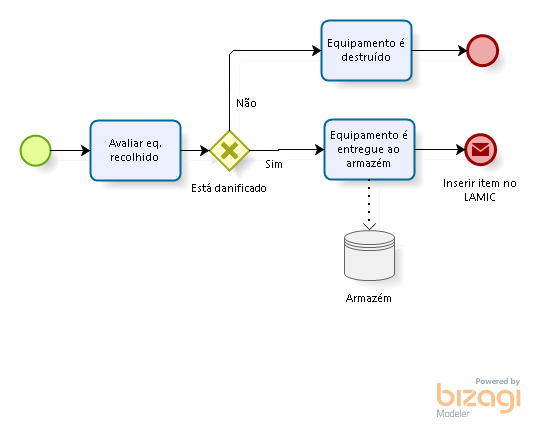
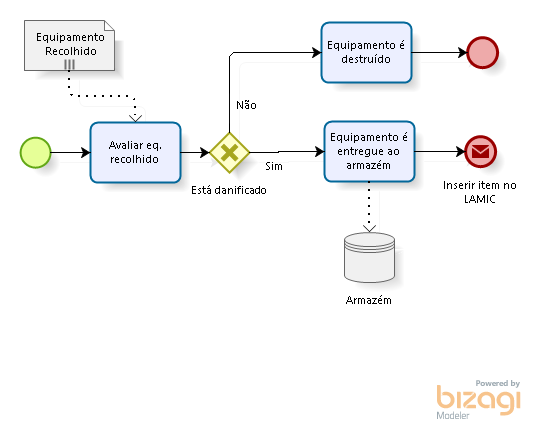
small correction to bpmn

diff --git a/ams/p4/libs/js/json/configuration.json.js b/ams/p4/libs/js/json/configuration.json.js
@@ -1,1 +1,1 @@
-Bizagi.AppModel = {"personalized":false,"userLogoName":"\\libs\\img\\biz-ex-logo.png","bizagiUrl":"http://www.bizagi.com","productName":"Bizagi Modeler","modelName":"P4","publishDate":"09/03/2015 21:14:47","pages":[{"id":"204a8ca5-8b9b-460e-a34e-33fcbd2d79fe","name":"P4","version":"1.0","author":"Marcos","image":"files\\diagrams\\P4.png","isSubprocessPage":false,"elements":[{"id":"e1f91b3d-2d9e-4752-a09f-3a45c6342f65","name":"DAT","elementImage":"files\\bpmnElements\\Participant.png","imageBounds":{"points":[{"x":21.0,"y":522.0}],"radius":0.0,"height":639.0,"width":50.0,"shape":"rect"},"elementType":"Participant","properties":[],"pageElements":[{"id":"d3e3aa5c-c1fd-4cd1-b6db-3e2e4f1192b2","name":"Equipamento Recolhido","elementImage":"files\\bpmnElements\\DataObject_IsCollection.png","imageBounds":{"points":[{"x":869.0,"y":857.0}],"radius":0.0,"height":50.0,"width":90.0,"shape":"rect"},"elementType":"DataObject","properties":[{"name":"State","type":"text"}]},{"id":"0d91e879-6ca0-43f3-8193-51dd0d0caa0a","name":"Pedido de equipamento","elementImage":"files\\bpmnElements\\DataObject.png","imageBounds":{"points":[{"x":434.0,"y":819.0}],"radius":0.0,"height":61.0,"width":90.0,"shape":"rect"},"elementType":"DataObject","properties":[{"name":"State","type":"text"}]},{"id":"33902c75-f620-4718-b2f9-cc9e269e9b2e","name":"Equipamento novo","elementImage":"files\\bpmnElements\\DataObject_IsCollection.png","imageBounds":{"points":[{"x":662.0,"y":855.0}],"radius":0.0,"height":50.0,"width":90.0,"shape":"rect"},"elementType":"DataObject","properties":[{"name":"State","type":"text"}]},{"id":"bce38c93-073b-4661-8824-2989c42bdde5","name":"DataStore","elementImage":"files\\bpmnElements\\DataStoreReference.png","imageBounds":{"points":[{"x":706.0,"y":557.0}],"radius":0.0,"height":50.0,"width":50.0,"shape":"rect"},"elementType":"DataStoreReference","properties":[{"name":"State","value":"","type":"text"}]},{"id":"12d97ed1-58b7-4ca3-91e0-c75caaff5d41","name":"Analisar  Intervenção","elementImage":"files\\bpmnElements\\AbstractTask.png","imageBounds":{"points":[{"x":215.0,"y":1008.0}],"radius":0.0,"height":60.0,"width":90.0,"shape":"rect"},"elementType":"AbstractTask","properties":[]},{"id":"ebae2b12-2214-40d5-9df0-cd29253960f9","name":"Nova intervenção para executar","elementImage":"files\\bpmnElements\\MessageStart.png","imageBounds":{"points":[{"x":134.0,"y":1023.0}],"radius":15.0,"height":30.0,"width":30.0,"shape":"circle"},"elementType":"MessageStart"},{"id":"cc87ab6f-854b-40dc-9807-f47439141294","name":"É necessário recolher equipamento?","elementImage":"files\\bpmnElements\\ExclusiveGateway.png","imageBounds":{"points":[{"x":362.0,"y":1018.0}],"radius":0.0,"height":40.0,"width":40.0,"shape":"poly"},"elementType":"ExclusiveGateway","properties":[],"pageElements":[{"name":"Não","elementType":"SequenceFlow","properties":[]},{"name":"Sim","elementType":"SequenceFlow","properties":[]}]},{"id":"81a61391-74a4-4cf2-9359-46b6b928b4d5","name":"Existe equipamento recolhido?","elementImage":"files\\bpmnElements\\ExclusiveGateway.png","imageBounds":{"points":[{"x":1109.0,"y":1018.0}],"radius":0.0,"height":40.0,"width":40.0,"shape":"poly"},"elementType":"ExclusiveGateway","properties":[],"pageElements":[{"name":"Sim","elementType":"SequenceFlow","properties":[]},{"name":"Não","elementType":"SequenceFlow","properties":[]}]},{"id":"c16cd79d-887b-4607-9905-f732d637bd91","name":"Event","elementImage":"files\\bpmnElements\\NoneEnd.png","imageBounds":{"points":[{"x":1455.0,"y":1022.0}],"radius":15.0,"height":30.0,"width":30.0,"shape":"circle"},"elementType":"NoneEnd"},{"id":"480889d9-fadb-40a4-b54f-1d8e44abd2b9","name":"Pedir equipamento necessário","elementImage":"files\\bpmnElements\\AbstractTask.png","imageBounds":{"points":[{"x":337.0,"y":903.0}],"radius":0.0,"height":60.0,"width":90.0,"shape":"rect"},"elementType":"AbstractTask","properties":[]},{"id":"caffad90-9f00-4d28-b9d0-0102bb1697b1","name":"Registar o pedido","elementImage":"files\\bpmnElements\\AbstractTask.png","imageBounds":{"points":[{"x":432.0,"y":648.0}],"radius":0.0,"height":60.0,"width":90.0,"shape":"rect"},"elementType":"AbstractTask","properties":[]},{"id":"58f86efc-04d7-4160-bee0-cc60727f39d7","name":"Devolver equipamento recolhido","elementImage":"files\\bpmnElements\\AbstractTask.png","imageBounds":{"points":[{"x":1084.0,"y":867.0}],"radius":0.0,"height":60.0,"width":90.0,"shape":"rect"},"elementType":"AbstractTask","properties":[]},{"id":"e66c8437-058d-4fad-a3f8-a4750261b88b","name":"Entregar o equipamento","elementImage":"files\\bpmnElements\\AbstractTask.png","imageBounds":{"points":[{"x":569.0,"y":648.0}],"radius":0.0,"height":60.0,"width":90.0,"shape":"rect"},"elementType":"AbstractTask","properties":[]},{"id":"75226ffd-c26a-48a1-9863-d394cd5e68cd","name":"Tratar do eq. recolhido","elementImage":"files\\bpmnElements\\SubProcess.png","imageBounds":{"points":[{"x":1063.5,"y":591.0}],"radius":0.0,"height":106.0,"width":131.0,"shape":"rect"},"isPublished":true,"elementType":"SubProcess","properties":[]},{"id":"1e655aef-8300-4ee4-8abb-8c646c82dc8a","name":"Pedido de equipamento","elementImage":"files\\bpmnElements\\DataObject.png","imageBounds":{"points":[{"x":495.0,"y":551.0}],"radius":0.0,"height":61.0,"width":90.0,"shape":"rect"},"elementType":"DataObject","properties":[{"name":"State","type":"text"}]},{"id":"20cb4cad-b925-47f7-a713-0fdd1c99c4e7","name":"Executar a intervenção","elementImage":"files\\bpmnElements\\SubProcess.png","imageBounds":{"points":[{"x":730.5,"y":985.0001}],"radius":0.0,"height":108.0,"width":160.0,"shape":"rect"},"isPublished":true,"elementType":"SubProcess","properties":[]},{"id":"d06f747c-c08b-4922-8716-e6821b838514","name":"Gateway","elementImage":"files\\bpmnElements\\ExclusiveGateway.png","imageBounds":{"points":[{"x":594.0,"y":1019.0}],"radius":0.0,"height":40.0,"width":40.0,"shape":"poly"},"elementType":"ExclusiveGateway","properties":[],"pageElements":[{"name":"Executar a intervenção","elementType":"SequenceFlow","properties":[]}]},{"id":"c89c3a3d-c5b1-4ab4-aa70-291ec273aa57","name":"Gateway","elementImage":"files\\bpmnElements\\ExclusiveGateway.png","imageBounds":{"points":[{"x":1327.0,"y":1017.0}],"radius":0.0,"height":40.0,"width":40.0,"shape":"poly"},"elementType":"ExclusiveGateway","properties":[],"pageElements":[{"name":"Gate","elementType":"SequenceFlow","properties":[]}]},{"id":"c4aa7466-2dd4-499b-96b5-4b71dbd4c669","name":"Responsável do Armazém","elementImage":"files\\bpmnElements\\Lane.png","imageBounds":{"points":[{"x":71.0,"y":522.0}],"radius":0.0,"height":260.5,"width":30.0,"shape":"rect"},"elementType":"Lane"},{"id":"d22830e8-a2c4-493d-9003-c439d6323f8d","name":"Equipa de Intervenção","elementImage":"files\\bpmnElements\\Lane.png","imageBounds":{"points":[{"x":71.0,"y":782.5}],"radius":0.0,"height":378.5,"width":30.0,"shape":"rect"},"elementType":"Lane"}]},{"id":"15629f74-dbf8-4862-b025-51b342f2028f","name":"LAMIC","elementImage":"files\\bpmnElements\\Participant.png","imageBounds":{"points":[{"x":20.0,"y":232.0}],"radius":0.0,"height":244.0,"width":50.0,"shape":"rect"},"elementType":"Participant","properties":[],"pageElements":[{"id":"e363da7d-c6f3-477c-841f-d97f5dae96ce","name":"Intervenção","elementImage":"files\\bpmnElements\\DataObject.png","imageBounds":{"points":[{"x":217.0,"y":389.0}],"radius":0.0,"height":50.0,"width":84.0,"shape":"rect"},"elementType":"DataObject","properties":[{"name":"State","type":"text"}]},{"id":"c2473d57-7a14-4cd3-99ed-c6d66a3320de","name":"DataStore","elementImage":"files\\bpmnElements\\DataStoreReference.png","imageBounds":{"points":[{"x":767.0,"y":389.0}],"radius":0.0,"height":50.0,"width":50.0,"shape":"rect"},"elementType":"DataStoreReference","properties":[{"name":"State","value":"","type":"text"}]},{"id":"ee83762d-03ea-4da3-ad0a-6dfb185c1dbf","name":"DataStore","elementImage":"files\\bpmnElements\\DataStoreReference.png","imageBounds":{"points":[{"x":1294.0,"y":389.0}],"radius":0.0,"height":50.0,"width":50.0,"shape":"rect"},"elementType":"DataStoreReference","properties":[{"name":"State","value":"","type":"text"}]},{"id":"04ade20c-95a1-4d4a-9d33-32366693d1c0","name":"Tempo marcado para esta intervenção","elementImage":"files\\bpmnElements\\TimerStart.png","imageBounds":{"points":[{"x":93.0,"y":297.0}],"radius":15.0,"height":30.0,"width":30.0,"shape":"circle"},"elementType":"TimerStart"},{"id":"36bbc622-855b-4018-b0a9-e27b2167be07","name":"Pedir atribuição de equipa","elementImage":"files\\bpmnElements\\AbstractTask.png","imageBounds":{"points":[{"x":176.0,"y":282.0}],"radius":0.0,"height":60.0,"width":90.0,"shape":"rect"},"elementType":"AbstractTask","properties":[]},{"id":"a9763a17-8c88-4e88-9dd7-c5e6a6af0857","name":"Enviar dados  da intervação à equipa alocada","elementImage":"files\\bpmnElements\\AbstractTask.png","imageBounds":{"points":[{"x":316.0,"y":275.0}],"radius":0.0,"height":75.0,"width":120.0,"shape":"rect"},"elementType":"AbstractTask","properties":[]},{"id":"5ab29082-0498-4a32-a8ca-949104629d3c","name":"Event","elementImage":"files\\bpmnElements\\NoneEnd.png","imageBounds":{"points":[{"x":475.0,"y":298.0}],"radius":15.0,"height":30.0,"width":30.0,"shape":"circle"},"elementType":"NoneEnd"},{"id":"36337395-1c78-4a47-a134-7a451afd9014","name":"Event","elementImage":"files\\bpmnElements\\MessageStart.png","imageBounds":{"points":[{"x":587.0,"y":296.0}],"radius":15.0,"height":30.0,"width":30.0,"shape":"circle"},"elementType":"MessageStart"},{"id":"1df45833-c251-45d2-a39f-779c6dfa6e18","name":"Remover eq. pedido do inventário","elementImage":"files\\bpmnElements\\AbstractTask.png","imageBounds":{"points":[{"x":682.0,"y":281.0}],"radius":0.0,"height":60.0,"width":90.0,"shape":"rect"},"elementType":"AbstractTask","properties":[]},{"id":"c7189847-7460-48ed-848d-5175bbf3ca2d","name":"Event","elementImage":"files\\bpmnElements\\NoneEnd.png","imageBounds":{"points":[{"x":830.0,"y":296.0}],"radius":15.0,"height":30.0,"width":30.0,"shape":"circle"},"elementType":"NoneEnd"},{"id":"b1014b26-2bb2-431b-9061-ddc27bdc9eea","name":"Event","elementImage":"files\\bpmnElements\\MessageStart.png","imageBounds":{"points":[{"x":1063.34656,"y":302.0}],"radius":15.0,"height":30.0,"width":30.0,"shape":"circle"},"elementType":"MessageStart"},{"id":"4f4db8cc-19ea-41c2-8a79-0b7795bc8b50","name":"Registar equipamento adicionado","elementImage":"files\\bpmnElements\\AbstractTask.png","imageBounds":{"points":[{"x":1200.0,"y":287.0}],"radius":0.0,"height":60.0,"width":90.0,"shape":"rect"},"elementType":"AbstractTask","properties":[]},{"id":"0419f5b7-711c-41cd-8f39-419c428026bc","name":"Event","elementImage":"files\\bpmnElements\\NoneEnd.png","imageBounds":{"points":[{"x":1391.0,"y":302.0}],"radius":15.0,"height":30.0,"width":30.0,"shape":"circle"},"elementType":"NoneEnd"}]},{"id":"792b7765-68a9-4eef-aa0d-c87d084dad35","name":"Sistema de Gestão de Escalas","elementImage":"files\\bpmnElements\\Participant.png","imageBounds":{"points":[{"x":88.0,"y":20.0}],"radius":0.0,"height":180.0,"width":50.0,"shape":"rect"},"elementType":"Participant","properties":[],"pageElements":[]}],"subPages":[{"id":"75226ffd-c26a-48a1-9863-d394cd5e68cd","name":"Tratar do eq. recolhido","image":"files\\diagrams\\Tratar_do_eq_recolhido.png","isSubprocessPage":true,"elements":[{"id":"927d6ae9-0a26-4d17-8314-c6157bf0217b","name":"Equipamento é entregue ao armazém","elementImage":"files\\bpmnElements\\AbstractTask.png","imageBounds":{"points":[{"x":324.0,"y":119.0}],"radius":0.0,"height":60.0,"width":90.0,"shape":"rect"},"elementType":"AbstractTask","properties":[]},{"id":"e80e84f5-f940-484f-946e-dadf51b37f18","name":"Equipamento é destruído","elementImage":"files\\bpmnElements\\AbstractTask.png","imageBounds":{"points":[{"x":321.0,"y":20.0}],"radius":0.0,"height":60.0,"width":90.0,"shape":"rect"},"elementType":"AbstractTask","properties":[]},{"id":"adf16998-a32e-4794-9875-2123a27344e9","name":"Inserir item no LAMIC","elementImage":"files\\bpmnElements\\MessageEnd.png","imageBounds":{"points":[{"x":465.0,"y":134.0}],"radius":15.0,"height":30.0,"width":30.0,"shape":"circle"},"elementType":"MessageEnd"},{"id":"dce7e5b5-e530-491e-a5d5-878b69560dc3","name":"Event","elementImage":"files\\bpmnElements\\NoneEnd.png","imageBounds":{"points":[{"x":467.0,"y":35.0}],"radius":15.0,"height":30.0,"width":30.0,"shape":"circle"},"elementType":"NoneEnd"},{"id":"f90f7245-3913-41ff-81e9-d089debc734e","name":"Event","elementImage":"files\\bpmnElements\\NoneStart.png","imageBounds":{"points":[{"x":20.0,"y":135.0}],"radius":15.0,"height":30.0,"width":30.0,"shape":"circle"},"elementType":"NoneStart"},{"id":"b1675905-ce34-478d-a2e3-6a0172fc377c","name":"DataStore","elementImage":"files\\bpmnElements\\DataStoreReference.png","imageBounds":{"points":[{"x":344.0,"y":230.0}],"radius":0.0,"height":50.0,"width":50.0,"shape":"rect"},"elementType":"DataStoreReference","properties":[{"name":"State","value":"","type":"text"}]},{"id":"97fa8a4e-0d53-442f-91e1-bb03f5a57e35","name":"Está danificado","elementImage":"files\\bpmnElements\\ExclusiveGateway.png","imageBounds":{"points":[{"x":209.0,"y":130.0}],"radius":0.0,"height":40.0,"width":40.0,"shape":"poly"},"elementType":"ExclusiveGateway","properties":[],"pageElements":[{"name":"Sim","elementType":"SequenceFlow","properties":[]},{"name":"Não","elementType":"SequenceFlow","properties":[]}]},{"id":"839dc8cf-f391-457d-928f-7504bab93c0d","name":"Avaliar eq. recolhido","elementImage":"files\\bpmnElements\\AbstractTask.png","imageBounds":{"points":[{"x":90.0,"y":120.0}],"radius":0.0,"height":60.0,"width":90.0,"shape":"rect"},"elementType":"AbstractTask","properties":[]}],"parentRef":"204a8ca5-8b9b-460e-a34e-33fcbd2d79fe"},{"id":"20cb4cad-b925-47f7-a713-0fdd1c99c4e7","name":"Executar a intervenção","image":"files\\diagrams\\Executar_a_intervencao.png","isSubprocessPage":true,"elements":[{"id":"2ae86d99-9134-4968-85bd-7c21432ebf5c","name":"Deslocar ao local descrito na Intervenção","elementImage":"files\\bpmnElements\\AbstractTask.png","imageBounds":{"points":[{"x":114.25,"y":150.0}],"radius":0.0,"height":60.0,"width":90.0,"shape":"rect"},"elementType":"AbstractTask","properties":[]},{"id":"bc68d511-90f6-4d11-ba6b-695758c2a4c4","name":"Executar o trabalho descrito na Intervenção","elementImage":"files\\bpmnElements\\SubProcess_AdHoc.png","imageBounds":{"points":[{"x":270.0,"y":20.0}],"radius":0.0,"height":82.0,"width":124.0,"shape":"rect"},"elementType":"SubProcess","properties":[{"name":"AdHoc Ordering","value":"Parallel","type":"text"}]},{"id":"acddd1b9-7d2c-413d-a718-6886b30c2c49","name":"Event","elementImage":"files\\bpmnElements\\NoneStart.png","imageBounds":{"points":[{"x":20.0,"y":165.0}],"radius":15.0,"height":30.0,"width":30.0,"shape":"circle"},"elementType":"NoneStart"},{"id":"f8d378f1-e469-4e5d-b184-7ffdba8d753f","name":"Event","elementImage":"files\\bpmnElements\\NoneEnd.png","imageBounds":{"points":[{"x":811.0,"y":165.0}],"radius":15.0,"height":30.0,"width":30.0,"shape":"circle"},"elementType":"NoneEnd"}],"parentRef":"204a8ca5-8b9b-460e-a34e-33fcbd2d79fe"}]}],"texts":{"tableOfContents":"Table of Contents","pageNumber":"Page","pageNumberLabelOf":"of","version":"Version","author":"Author","description":"Description","mainPool":"Main Process","mainPoolDescription":"Main Process Description","processDiagrams":"Process Diagrams","processElements":"Process Elements","elements":"Process Elements","defaultElementName":"Element","performers":"Performers","connectors":"Connectors","connector":"Connector","home":"Home","search":"Search","goToParentProcess":"<< Go to Parent Process","visitBizagi":"Visit bizagi.com","contains":"Contains {0} Sub-Processes","showAll":"Show all","fullScreen":"Full screen","zoomIn":"Zoom In","zoomOut":"Zoom Out","close":"Close","menu":"Menu: ","errorPage":"Error when visualizing page","process":"Process","subProcess":"Published Sub-Processes","contain":"Contains","checkAttributes":"Check attributes","checkOverview":"Check overview","unavailableResource":"Unavailable resource","localResource":"Resource can be accessed locally","performer":"Performer","linktoimage":"Link to Image","presentationAction":"Presentation Actions","searchGlobal":"Search all","searchLocal":"Search in this process","searchResults":"No Results Found","titlePage":"Start","emptyElement":"This element has not yet been documented","unsupported":"Your browser does not support content displayed by this page. <br> We recommend you upgrading your browser.","details":"Details","expand":"Expand","mainPoolProperties":"Main Process properties","cannotVisualize":"The page cannot be displayed","resourceNotFound":"The requested resource was not found:","applyTheme":"Applying new theme"},"searchMap":[{"containerId":"204a8ca5-8b9b-460e-a34e-33fcbd2d79fe","containerName":"P4","isSubprocess":false,"elements":[{"id":"e1f91b3d-2d9e-4752-a09f-3a45c6342f65","value":"DAT"},{"id":"c4aa7466-2dd4-499b-96b5-4b71dbd4c669","value":"Responsável do Armazém"},{"id":"d22830e8-a2c4-493d-9003-c439d6323f8d","value":"Equipa de Intervenção"},{"id":"d3e3aa5c-c1fd-4cd1-b6db-3e2e4f1192b2","value":"Equipamento Recolhido"},{"id":"0d91e879-6ca0-43f3-8193-51dd0d0caa0a","value":"Pedido de equipamento"},{"id":"33902c75-f620-4718-b2f9-cc9e269e9b2e","value":"Equipamento novo"},{"id":"1e655aef-8300-4ee4-8abb-8c646c82dc8a","value":"Pedido de equipamento"},{"id":"bce38c93-073b-4661-8824-2989c42bdde5"},{"id":"12d97ed1-58b7-4ca3-91e0-c75caaff5d41","value":"Analisar  Intervenção"},{"id":"ebae2b12-2214-40d5-9df0-cd29253960f9","value":"Nova intervenção para executar"},{"id":"cc87ab6f-854b-40dc-9807-f47439141294","value":"É necessário recolher equipamento?"},{"id":"81a61391-74a4-4cf2-9359-46b6b928b4d5","value":"Existe equipamento recolhido?"},{"id":"c16cd79d-887b-4607-9905-f732d637bd91","value":""},{"id":"480889d9-fadb-40a4-b54f-1d8e44abd2b9","value":"Pedir equipamento necessário"},{"id":"caffad90-9f00-4d28-b9d0-0102bb1697b1","value":"Registar o pedido"},{"id":"58f86efc-04d7-4160-bee0-cc60727f39d7","value":"Devolver equipamento recolhido"},{"id":"e66c8437-058d-4fad-a3f8-a4750261b88b","value":"Entregar o equipamento"},{"id":"75226ffd-c26a-48a1-9863-d394cd5e68cd","value":"Tratar do eq. recolhido"},{"id":"20cb4cad-b925-47f7-a713-0fdd1c99c4e7","value":"Executar a intervenção"},{"id":"d06f747c-c08b-4922-8716-e6821b838514","value":""},{"id":"c89c3a3d-c5b1-4ab4-aa70-291ec273aa57","value":""},{"id":"bd74e2d6-6686-4e5c-b3e3-5ea381d98c8c"},{"id":"8be84607-7e01-4637-ac90-c69a669b6dde"},{"id":"80e307f1-a6a0-41b6-9956-9cb622be3d34"},{"id":"3703ad7e-980c-47ed-a66e-0f3912c4800f"},{"id":"2427c10f-5d1d-4613-8fb6-cd9f1323c6e0"},{"id":"233a275b-5f4a-4516-a14f-c6988453354d"},{"id":"60836b83-dc05-4fa4-a18a-11a53a4935c0"},{"id":"e9c43be7-917d-4bee-aede-7e2dba898a4f"},{"id":"9856c879-347f-4915-bf16-256034383f89"},{"id":"15629f74-dbf8-4862-b025-51b342f2028f","value":"LAMIC"},{"id":"e363da7d-c6f3-477c-841f-d97f5dae96ce","value":"Intervenção"},{"id":"c2473d57-7a14-4cd3-99ed-c6d66a3320de"},{"id":"ee83762d-03ea-4da3-ad0a-6dfb185c1dbf"},{"id":"04ade20c-95a1-4d4a-9d33-32366693d1c0","value":"Tempo marcado para esta intervenção"},{"id":"36bbc622-855b-4018-b0a9-e27b2167be07","value":"Pedir atribuição de equipa"},{"id":"a9763a17-8c88-4e88-9dd7-c5e6a6af0857","value":"Enviar dados  da intervação à equipa alocada"},{"id":"5ab29082-0498-4a32-a8ca-949104629d3c","value":""},{"id":"36337395-1c78-4a47-a134-7a451afd9014","value":""},{"id":"1df45833-c251-45d2-a39f-779c6dfa6e18","value":"Remover eq. pedido do inventário"},{"id":"c7189847-7460-48ed-848d-5175bbf3ca2d","value":""},{"id":"b1014b26-2bb2-431b-9061-ddc27bdc9eea","value":""},{"id":"4f4db8cc-19ea-41c2-8a79-0b7795bc8b50","value":"Registar equipamento adicionado"},{"id":"0419f5b7-711c-41cd-8f39-419c428026bc","value":""},{"id":"30c9fd72-55e0-4746-ace5-20cedc3924f9"},{"id":"d556b7a9-1cac-46c9-9dd6-67eee93995da"},{"id":"bfccc8b6-ae17-4532-9498-e922ab74a9ce"},{"id":"07399afe-71c5-4b7b-abcd-7a3da024d596"},{"id":"792b7765-68a9-4eef-aa0d-c87d084dad35","value":"Sistema de Gestão de Escalas"}]},{"containerId":"75226ffd-c26a-48a1-9863-d394cd5e68cd","containerName":"Tratar do eq. recolhido","isSubprocess":true,"elements":[{"id":"f90f7245-3913-41ff-81e9-d089debc734e","value":""},{"id":"dce7e5b5-e530-491e-a5d5-878b69560dc3","value":""},{"id":"839dc8cf-f391-457d-928f-7504bab93c0d","value":"Avaliar eq. recolhido"},{"id":"97fa8a4e-0d53-442f-91e1-bb03f5a57e35","value":"Está danificado"},{"id":"adf16998-a32e-4794-9875-2123a27344e9","value":"Inserir item no LAMIC"},{"id":"b1675905-ce34-478d-a2e3-6a0172fc377c"},{"id":"e80e84f5-f940-484f-946e-dadf51b37f18","value":"Equipamento é destruído"},{"id":"927d6ae9-0a26-4d17-8314-c6157bf0217b","value":"Equipamento é entregue ao armazém"},{"id":"d34dd8a1-40bd-439c-b7e3-8519c2b0e91e"}]},{"containerId":"20cb4cad-b925-47f7-a713-0fdd1c99c4e7","containerName":"Executar a intervenção","isSubprocess":true,"elements":[{"id":"acddd1b9-7d2c-413d-a718-6886b30c2c49","value":""},{"id":"f8d378f1-e469-4e5d-b184-7ffdba8d753f","value":""},{"id":"bc68d511-90f6-4d11-ba6b-695758c2a4c4","value":"Executar o trabalho descrito na Intervenção"},{"id":"2ae86d99-9134-4968-85bd-7c21432ebf5c","value":"Deslocar ao local descrito na Intervenção"}]},{"containerId":"bc68d511-90f6-4d11-ba6b-695758c2a4c4","containerName":"Executar o trabalho descrito na Intervenção","isSubprocess":true,"elements":[{"id":"2d1cf529-8bb1-4617-ac9a-2bca8dee65cc","value":"É necessário a manutenção de eq. existente?"},{"id":"b6c77f80-de36-4c85-99e4-63e2ed6ac150","value":"Manutenção do eq. existente"},{"id":"6298ec14-fe2e-4497-9a7d-d9be084a9ecd","value":"É necessário recolher equipamento?"},{"id":"8aa200d8-1725-4c43-b190-564038c07440","value":"Recolher equipamento"},{"id":"f7d1ec68-03ac-49ca-9f7e-af4324115a58","value":"Equipamento Recolhido"},{"id":"6f5af32f-3f39-4bdf-a819-fc17a4cb8135","value":"Equipamento novo"},{"id":"61524ce6-91ec-48ee-a8d3-704881d593a4","value":"Instalar equipamento novo"},{"id":"1351a2d0-edde-4180-94ba-c06608d79296","value":"Existe equipamento novo?"},{"id":"34b72678-168d-4277-8994-cadb3486e512"},{"id":"59592777-8076-447a-b3aa-d8b1c5cc5052"}]}]}
+Bizagi.AppModel = {"personalized":false,"userLogoName":"\\libs\\img\\biz-ex-logo.png","bizagiUrl":"http://www.bizagi.com","productName":"Bizagi Modeler","modelName":"P4","publishDate":"09/03/2015 21:44:07","pages":[{"id":"204a8ca5-8b9b-460e-a34e-33fcbd2d79fe","name":"P4","version":"1.0","author":"Marcos","image":"files\\diagrams\\P4.png","isSubprocessPage":false,"elements":[{"id":"e1f91b3d-2d9e-4752-a09f-3a45c6342f65","name":"DAT","elementImage":"files\\bpmnElements\\Participant.png","imageBounds":{"points":[{"x":21.0,"y":522.0}],"radius":0.0,"height":639.0,"width":50.0,"shape":"rect"},"elementType":"Participant","properties":[],"pageElements":[{"id":"d3e3aa5c-c1fd-4cd1-b6db-3e2e4f1192b2","name":"Equipamento Recolhido","elementImage":"files\\bpmnElements\\DataObject_IsCollection.png","imageBounds":{"points":[{"x":869.0,"y":857.0}],"radius":0.0,"height":50.0,"width":90.0,"shape":"rect"},"elementType":"DataObject","properties":[{"name":"State","type":"text"}]},{"id":"0d91e879-6ca0-43f3-8193-51dd0d0caa0a","name":"Pedido de equipamento","elementImage":"files\\bpmnElements\\DataObject.png","imageBounds":{"points":[{"x":434.0,"y":819.0}],"radius":0.0,"height":61.0,"width":90.0,"shape":"rect"},"elementType":"DataObject","properties":[{"name":"State","type":"text"}]},{"id":"33902c75-f620-4718-b2f9-cc9e269e9b2e","name":"Equipamento novo","elementImage":"files\\bpmnElements\\DataObject_IsCollection.png","imageBounds":{"points":[{"x":662.0,"y":855.0}],"radius":0.0,"height":50.0,"width":90.0,"shape":"rect"},"elementType":"DataObject","properties":[{"name":"State","type":"text"}]},{"id":"bce38c93-073b-4661-8824-2989c42bdde5","name":"DataStore","elementImage":"files\\bpmnElements\\DataStoreReference.png","imageBounds":{"points":[{"x":706.0,"y":557.0}],"radius":0.0,"height":50.0,"width":50.0,"shape":"rect"},"elementType":"DataStoreReference","properties":[{"name":"State","value":"","type":"text"}]},{"id":"12d97ed1-58b7-4ca3-91e0-c75caaff5d41","name":"Analisar  Intervenção","elementImage":"files\\bpmnElements\\AbstractTask.png","imageBounds":{"points":[{"x":215.0,"y":1008.0}],"radius":0.0,"height":60.0,"width":90.0,"shape":"rect"},"elementType":"AbstractTask","properties":[]},{"id":"ebae2b12-2214-40d5-9df0-cd29253960f9","name":"Nova intervenção para executar","elementImage":"files\\bpmnElements\\MessageStart.png","imageBounds":{"points":[{"x":134.0,"y":1023.0}],"radius":15.0,"height":30.0,"width":30.0,"shape":"circle"},"elementType":"MessageStart"},{"id":"cc87ab6f-854b-40dc-9807-f47439141294","name":"É necessário recolher equipamento?","elementImage":"files\\bpmnElements\\ExclusiveGateway.png","imageBounds":{"points":[{"x":362.0,"y":1018.0}],"radius":0.0,"height":40.0,"width":40.0,"shape":"poly"},"elementType":"ExclusiveGateway","properties":[],"pageElements":[{"name":"Não","elementType":"SequenceFlow","properties":[]},{"name":"Sim","elementType":"SequenceFlow","properties":[]}]},{"id":"81a61391-74a4-4cf2-9359-46b6b928b4d5","name":"Existe equipamento recolhido?","elementImage":"files\\bpmnElements\\ExclusiveGateway.png","imageBounds":{"points":[{"x":1109.0,"y":1018.0}],"radius":0.0,"height":40.0,"width":40.0,"shape":"poly"},"elementType":"ExclusiveGateway","properties":[],"pageElements":[{"name":"Sim","elementType":"SequenceFlow","properties":[]},{"name":"Não","elementType":"SequenceFlow","properties":[]}]},{"id":"c16cd79d-887b-4607-9905-f732d637bd91","name":"Event","elementImage":"files\\bpmnElements\\NoneEnd.png","imageBounds":{"points":[{"x":1455.0,"y":1022.0}],"radius":15.0,"height":30.0,"width":30.0,"shape":"circle"},"elementType":"NoneEnd"},{"id":"480889d9-fadb-40a4-b54f-1d8e44abd2b9","name":"Pedir equipamento necessário","elementImage":"files\\bpmnElements\\AbstractTask.png","imageBounds":{"points":[{"x":337.0,"y":903.0}],"radius":0.0,"height":60.0,"width":90.0,"shape":"rect"},"elementType":"AbstractTask","properties":[]},{"id":"caffad90-9f00-4d28-b9d0-0102bb1697b1","name":"Registar o pedido","elementImage":"files\\bpmnElements\\AbstractTask.png","imageBounds":{"points":[{"x":432.0,"y":648.0}],"radius":0.0,"height":60.0,"width":90.0,"shape":"rect"},"elementType":"AbstractTask","properties":[]},{"id":"58f86efc-04d7-4160-bee0-cc60727f39d7","name":"Devolver equipamento recolhido","elementImage":"files\\bpmnElements\\AbstractTask.png","imageBounds":{"points":[{"x":1084.0,"y":867.0}],"radius":0.0,"height":60.0,"width":90.0,"shape":"rect"},"elementType":"AbstractTask","properties":[]},{"id":"e66c8437-058d-4fad-a3f8-a4750261b88b","name":"Entregar o equipamento","elementImage":"files\\bpmnElements\\AbstractTask.png","imageBounds":{"points":[{"x":569.0,"y":648.0}],"radius":0.0,"height":60.0,"width":90.0,"shape":"rect"},"elementType":"AbstractTask","properties":[]},{"id":"75226ffd-c26a-48a1-9863-d394cd5e68cd","name":"Tratar do eq. recolhido","elementImage":"files\\bpmnElements\\SubProcess.png","imageBounds":{"points":[{"x":1063.5,"y":591.0}],"radius":0.0,"height":106.0,"width":131.0,"shape":"rect"},"isPublished":true,"elementType":"SubProcess","properties":[]},{"id":"1e655aef-8300-4ee4-8abb-8c646c82dc8a","name":"Pedido de equipamento","elementImage":"files\\bpmnElements\\DataObject.png","imageBounds":{"points":[{"x":495.0,"y":551.0}],"radius":0.0,"height":61.0,"width":90.0,"shape":"rect"},"elementType":"DataObject","properties":[{"name":"State","type":"text"}]},{"id":"20cb4cad-b925-47f7-a713-0fdd1c99c4e7","name":"Executar a intervenção","elementImage":"files\\bpmnElements\\SubProcess.png","imageBounds":{"points":[{"x":730.5,"y":985.0001}],"radius":0.0,"height":108.0,"width":160.0,"shape":"rect"},"isPublished":true,"elementType":"SubProcess","properties":[]},{"id":"d06f747c-c08b-4922-8716-e6821b838514","name":"Gateway","elementImage":"files\\bpmnElements\\ExclusiveGateway.png","imageBounds":{"points":[{"x":594.0,"y":1019.0}],"radius":0.0,"height":40.0,"width":40.0,"shape":"poly"},"elementType":"ExclusiveGateway","properties":[],"pageElements":[{"name":"Executar a intervenção","elementType":"SequenceFlow","properties":[]}]},{"id":"c89c3a3d-c5b1-4ab4-aa70-291ec273aa57","name":"Gateway","elementImage":"files\\bpmnElements\\ExclusiveGateway.png","imageBounds":{"points":[{"x":1327.0,"y":1017.0}],"radius":0.0,"height":40.0,"width":40.0,"shape":"poly"},"elementType":"ExclusiveGateway","properties":[],"pageElements":[{"name":"Gate","elementType":"SequenceFlow","properties":[]}]},{"id":"c4aa7466-2dd4-499b-96b5-4b71dbd4c669","name":"Responsável do Armazém","elementImage":"files\\bpmnElements\\Lane.png","imageBounds":{"points":[{"x":71.0,"y":522.0}],"radius":0.0,"height":260.5,"width":30.0,"shape":"rect"},"elementType":"Lane"},{"id":"d22830e8-a2c4-493d-9003-c439d6323f8d","name":"Equipa de Intervenção","elementImage":"files\\bpmnElements\\Lane.png","imageBounds":{"points":[{"x":71.0,"y":782.5}],"radius":0.0,"height":378.5,"width":30.0,"shape":"rect"},"elementType":"Lane"}]},{"id":"15629f74-dbf8-4862-b025-51b342f2028f","name":"LAMIC","elementImage":"files\\bpmnElements\\Participant.png","imageBounds":{"points":[{"x":20.0,"y":232.0}],"radius":0.0,"height":244.0,"width":50.0,"shape":"rect"},"elementType":"Participant","properties":[],"pageElements":[{"id":"e363da7d-c6f3-477c-841f-d97f5dae96ce","name":"Intervenção","elementImage":"files\\bpmnElements\\DataObject.png","imageBounds":{"points":[{"x":217.0,"y":389.0}],"radius":0.0,"height":50.0,"width":84.0,"shape":"rect"},"elementType":"DataObject","properties":[{"name":"State","type":"text"}]},{"id":"c2473d57-7a14-4cd3-99ed-c6d66a3320de","name":"DataStore","elementImage":"files\\bpmnElements\\DataStoreReference.png","imageBounds":{"points":[{"x":767.0,"y":389.0}],"radius":0.0,"height":50.0,"width":50.0,"shape":"rect"},"elementType":"DataStoreReference","properties":[{"name":"State","value":"","type":"text"}]},{"id":"ee83762d-03ea-4da3-ad0a-6dfb185c1dbf","name":"DataStore","elementImage":"files\\bpmnElements\\DataStoreReference.png","imageBounds":{"points":[{"x":1294.0,"y":389.0}],"radius":0.0,"height":50.0,"width":50.0,"shape":"rect"},"elementType":"DataStoreReference","properties":[{"name":"State","value":"","type":"text"}]},{"id":"04ade20c-95a1-4d4a-9d33-32366693d1c0","name":"Tempo marcado para esta intervenção","elementImage":"files\\bpmnElements\\TimerStart.png","imageBounds":{"points":[{"x":93.0,"y":297.0}],"radius":15.0,"height":30.0,"width":30.0,"shape":"circle"},"elementType":"TimerStart"},{"id":"36bbc622-855b-4018-b0a9-e27b2167be07","name":"Pedir atribuição de equipa","elementImage":"files\\bpmnElements\\AbstractTask.png","imageBounds":{"points":[{"x":176.0,"y":282.0}],"radius":0.0,"height":60.0,"width":90.0,"shape":"rect"},"elementType":"AbstractTask","properties":[]},{"id":"a9763a17-8c88-4e88-9dd7-c5e6a6af0857","name":"Enviar dados  da intervação à equipa alocada","elementImage":"files\\bpmnElements\\AbstractTask.png","imageBounds":{"points":[{"x":316.0,"y":275.0}],"radius":0.0,"height":75.0,"width":120.0,"shape":"rect"},"elementType":"AbstractTask","properties":[]},{"id":"5ab29082-0498-4a32-a8ca-949104629d3c","name":"Event","elementImage":"files\\bpmnElements\\NoneEnd.png","imageBounds":{"points":[{"x":475.0,"y":298.0}],"radius":15.0,"height":30.0,"width":30.0,"shape":"circle"},"elementType":"NoneEnd"},{"id":"36337395-1c78-4a47-a134-7a451afd9014","name":"Event","elementImage":"files\\bpmnElements\\MessageStart.png","imageBounds":{"points":[{"x":587.0,"y":296.0}],"radius":15.0,"height":30.0,"width":30.0,"shape":"circle"},"elementType":"MessageStart"},{"id":"1df45833-c251-45d2-a39f-779c6dfa6e18","name":"Remover eq. pedido do inventário","elementImage":"files\\bpmnElements\\AbstractTask.png","imageBounds":{"points":[{"x":682.0,"y":281.0}],"radius":0.0,"height":60.0,"width":90.0,"shape":"rect"},"elementType":"AbstractTask","properties":[]},{"id":"c7189847-7460-48ed-848d-5175bbf3ca2d","name":"Event","elementImage":"files\\bpmnElements\\NoneEnd.png","imageBounds":{"points":[{"x":830.0,"y":296.0}],"radius":15.0,"height":30.0,"width":30.0,"shape":"circle"},"elementType":"NoneEnd"},{"id":"b1014b26-2bb2-431b-9061-ddc27bdc9eea","name":"Event","elementImage":"files\\bpmnElements\\MessageStart.png","imageBounds":{"points":[{"x":1063.34656,"y":302.0}],"radius":15.0,"height":30.0,"width":30.0,"shape":"circle"},"elementType":"MessageStart"},{"id":"4f4db8cc-19ea-41c2-8a79-0b7795bc8b50","name":"Registar equipamento adicionado","elementImage":"files\\bpmnElements\\AbstractTask.png","imageBounds":{"points":[{"x":1200.0,"y":287.0}],"radius":0.0,"height":60.0,"width":90.0,"shape":"rect"},"elementType":"AbstractTask","properties":[]},{"id":"0419f5b7-711c-41cd-8f39-419c428026bc","name":"Event","elementImage":"files\\bpmnElements\\NoneEnd.png","imageBounds":{"points":[{"x":1391.0,"y":302.0}],"radius":15.0,"height":30.0,"width":30.0,"shape":"circle"},"elementType":"NoneEnd"}]},{"id":"792b7765-68a9-4eef-aa0d-c87d084dad35","name":"Sistema de Gestão de Escalas","elementImage":"files\\bpmnElements\\Participant.png","imageBounds":{"points":[{"x":88.0,"y":20.0}],"radius":0.0,"height":180.0,"width":50.0,"shape":"rect"},"elementType":"Participant","properties":[],"pageElements":[]}],"subPages":[{"id":"75226ffd-c26a-48a1-9863-d394cd5e68cd","name":"Tratar do eq. recolhido","image":"files\\diagrams\\Tratar_do_eq_recolhido.png","isSubprocessPage":true,"elements":[{"id":"927d6ae9-0a26-4d17-8314-c6157bf0217b","name":"Equipamento é entregue ao armazém","elementImage":"files\\bpmnElements\\AbstractTask.png","imageBounds":{"points":[{"x":324.0,"y":121.0}],"radius":0.0,"height":60.0,"width":90.0,"shape":"rect"},"elementType":"AbstractTask","properties":[]},{"id":"e80e84f5-f940-484f-946e-dadf51b37f18","name":"Equipamento é destruído","elementImage":"files\\bpmnElements\\AbstractTask.png","imageBounds":{"points":[{"x":321.0,"y":22.0}],"radius":0.0,"height":60.0,"width":90.0,"shape":"rect"},"elementType":"AbstractTask","properties":[]},{"id":"adf16998-a32e-4794-9875-2123a27344e9","name":"Inserir item no LAMIC","elementImage":"files\\bpmnElements\\MessageEnd.png","imageBounds":{"points":[{"x":465.0,"y":136.0}],"radius":15.0,"height":30.0,"width":30.0,"shape":"circle"},"elementType":"MessageEnd"},{"id":"dce7e5b5-e530-491e-a5d5-878b69560dc3","name":"Event","elementImage":"files\\bpmnElements\\NoneEnd.png","imageBounds":{"points":[{"x":467.0,"y":37.0}],"radius":15.0,"height":30.0,"width":30.0,"shape":"circle"},"elementType":"NoneEnd"},{"id":"f90f7245-3913-41ff-81e9-d089debc734e","name":"Event","elementImage":"files\\bpmnElements\\NoneStart.png","imageBounds":{"points":[{"x":20.0,"y":137.0}],"radius":15.0,"height":30.0,"width":30.0,"shape":"circle"},"elementType":"NoneStart"},{"id":"b1675905-ce34-478d-a2e3-6a0172fc377c","name":"DataStore","elementImage":"files\\bpmnElements\\DataStoreReference.png","imageBounds":{"points":[{"x":344.0,"y":232.0}],"radius":0.0,"height":50.0,"width":50.0,"shape":"rect"},"elementType":"DataStoreReference","properties":[{"name":"State","value":"","type":"text"}]},{"id":"97fa8a4e-0d53-442f-91e1-bb03f5a57e35","name":"Está danificado","elementImage":"files\\bpmnElements\\ExclusiveGateway.png","imageBounds":{"points":[{"x":209.0,"y":132.0}],"radius":0.0,"height":40.0,"width":40.0,"shape":"poly"},"elementType":"ExclusiveGateway","properties":[],"pageElements":[{"name":"Sim","elementType":"SequenceFlow","properties":[]},{"name":"Não","elementType":"SequenceFlow","properties":[]}]},{"id":"839dc8cf-f391-457d-928f-7504bab93c0d","name":"Avaliar eq. recolhido","elementImage":"files\\bpmnElements\\AbstractTask.png","imageBounds":{"points":[{"x":90.0,"y":122.0}],"radius":0.0,"height":60.0,"width":90.0,"shape":"rect"},"elementType":"AbstractTask","properties":[]}],"parentRef":"204a8ca5-8b9b-460e-a34e-33fcbd2d79fe"},{"id":"20cb4cad-b925-47f7-a713-0fdd1c99c4e7","name":"Executar a intervenção","image":"files\\diagrams\\Executar_a_intervencao.png","isSubprocessPage":true,"elements":[{"id":"2ae86d99-9134-4968-85bd-7c21432ebf5c","name":"Deslocar ao local descrito na Intervenção","elementImage":"files\\bpmnElements\\AbstractTask.png","imageBounds":{"points":[{"x":114.25,"y":150.0}],"radius":0.0,"height":60.0,"width":90.0,"shape":"rect"},"elementType":"AbstractTask","properties":[]},{"id":"bc68d511-90f6-4d11-ba6b-695758c2a4c4","name":"Executar o trabalho descrito na Intervenção","elementImage":"files\\bpmnElements\\SubProcess_AdHoc.png","imageBounds":{"points":[{"x":270.0,"y":20.0}],"radius":0.0,"height":82.0,"width":124.0,"shape":"rect"},"elementType":"SubProcess","properties":[{"name":"AdHoc Ordering","value":"Parallel","type":"text"}]},{"id":"acddd1b9-7d2c-413d-a718-6886b30c2c49","name":"Event","elementImage":"files\\bpmnElements\\NoneStart.png","imageBounds":{"points":[{"x":20.0,"y":165.0}],"radius":15.0,"height":30.0,"width":30.0,"shape":"circle"},"elementType":"NoneStart"},{"id":"f8d378f1-e469-4e5d-b184-7ffdba8d753f","name":"Event","elementImage":"files\\bpmnElements\\NoneEnd.png","imageBounds":{"points":[{"x":811.0,"y":165.0}],"radius":15.0,"height":30.0,"width":30.0,"shape":"circle"},"elementType":"NoneEnd"}],"parentRef":"204a8ca5-8b9b-460e-a34e-33fcbd2d79fe"}]}],"texts":{"tableOfContents":"Table of Contents","pageNumber":"Page","pageNumberLabelOf":"of","version":"Version","author":"Author","description":"Description","mainPool":"Main Process","mainPoolDescription":"Main Process Description","processDiagrams":"Process Diagrams","processElements":"Process Elements","elements":"Process Elements","defaultElementName":"Element","performers":"Performers","connectors":"Connectors","connector":"Connector","home":"Home","search":"Search","goToParentProcess":"<< Go to Parent Process","visitBizagi":"Visit bizagi.com","contains":"Contains {0} Sub-Processes","showAll":"Show all","fullScreen":"Full screen","zoomIn":"Zoom In","zoomOut":"Zoom Out","close":"Close","menu":"Menu: ","errorPage":"Error when visualizing page","process":"Process","subProcess":"Published Sub-Processes","contain":"Contains","checkAttributes":"Check attributes","checkOverview":"Check overview","unavailableResource":"Unavailable resource","localResource":"Resource can be accessed locally","performer":"Performer","linktoimage":"Link to Image","presentationAction":"Presentation Actions","searchGlobal":"Search all","searchLocal":"Search in this process","searchResults":"No Results Found","titlePage":"Start","emptyElement":"This element has not yet been documented","unsupported":"Your browser does not support content displayed by this page. <br> We recommend you upgrading your browser.","details":"Details","expand":"Expand","mainPoolProperties":"Main Process properties","cannotVisualize":"The page cannot be displayed","resourceNotFound":"The requested resource was not found:","applyTheme":"Applying new theme"},"searchMap":[{"containerId":"204a8ca5-8b9b-460e-a34e-33fcbd2d79fe","containerName":"P4","isSubprocess":false,"elements":[{"id":"e1f91b3d-2d9e-4752-a09f-3a45c6342f65","value":"DAT"},{"id":"c4aa7466-2dd4-499b-96b5-4b71dbd4c669","value":"Responsável do Armazém"},{"id":"d22830e8-a2c4-493d-9003-c439d6323f8d","value":"Equipa de Intervenção"},{"id":"d3e3aa5c-c1fd-4cd1-b6db-3e2e4f1192b2","value":"Equipamento Recolhido"},{"id":"0d91e879-6ca0-43f3-8193-51dd0d0caa0a","value":"Pedido de equipamento"},{"id":"33902c75-f620-4718-b2f9-cc9e269e9b2e","value":"Equipamento novo"},{"id":"1e655aef-8300-4ee4-8abb-8c646c82dc8a","value":"Pedido de equipamento"},{"id":"bce38c93-073b-4661-8824-2989c42bdde5"},{"id":"12d97ed1-58b7-4ca3-91e0-c75caaff5d41","value":"Analisar  Intervenção"},{"id":"ebae2b12-2214-40d5-9df0-cd29253960f9","value":"Nova intervenção para executar"},{"id":"cc87ab6f-854b-40dc-9807-f47439141294","value":"É necessário recolher equipamento?"},{"id":"81a61391-74a4-4cf2-9359-46b6b928b4d5","value":"Existe equipamento recolhido?"},{"id":"c16cd79d-887b-4607-9905-f732d637bd91","value":""},{"id":"480889d9-fadb-40a4-b54f-1d8e44abd2b9","value":"Pedir equipamento necessário"},{"id":"caffad90-9f00-4d28-b9d0-0102bb1697b1","value":"Registar o pedido"},{"id":"58f86efc-04d7-4160-bee0-cc60727f39d7","value":"Devolver equipamento recolhido"},{"id":"e66c8437-058d-4fad-a3f8-a4750261b88b","value":"Entregar o equipamento"},{"id":"75226ffd-c26a-48a1-9863-d394cd5e68cd","value":"Tratar do eq. recolhido"},{"id":"20cb4cad-b925-47f7-a713-0fdd1c99c4e7","value":"Executar a intervenção"},{"id":"d06f747c-c08b-4922-8716-e6821b838514","value":""},{"id":"c89c3a3d-c5b1-4ab4-aa70-291ec273aa57","value":""},{"id":"bd74e2d6-6686-4e5c-b3e3-5ea381d98c8c"},{"id":"8be84607-7e01-4637-ac90-c69a669b6dde"},{"id":"80e307f1-a6a0-41b6-9956-9cb622be3d34"},{"id":"3703ad7e-980c-47ed-a66e-0f3912c4800f"},{"id":"2427c10f-5d1d-4613-8fb6-cd9f1323c6e0"},{"id":"233a275b-5f4a-4516-a14f-c6988453354d"},{"id":"60836b83-dc05-4fa4-a18a-11a53a4935c0"},{"id":"e9c43be7-917d-4bee-aede-7e2dba898a4f"},{"id":"9856c879-347f-4915-bf16-256034383f89"},{"id":"15629f74-dbf8-4862-b025-51b342f2028f","value":"LAMIC"},{"id":"e363da7d-c6f3-477c-841f-d97f5dae96ce","value":"Intervenção"},{"id":"c2473d57-7a14-4cd3-99ed-c6d66a3320de"},{"id":"ee83762d-03ea-4da3-ad0a-6dfb185c1dbf"},{"id":"04ade20c-95a1-4d4a-9d33-32366693d1c0","value":"Tempo marcado para esta intervenção"},{"id":"36bbc622-855b-4018-b0a9-e27b2167be07","value":"Pedir atribuição de equipa"},{"id":"a9763a17-8c88-4e88-9dd7-c5e6a6af0857","value":"Enviar dados  da intervação à equipa alocada"},{"id":"5ab29082-0498-4a32-a8ca-949104629d3c","value":""},{"id":"36337395-1c78-4a47-a134-7a451afd9014","value":""},{"id":"1df45833-c251-45d2-a39f-779c6dfa6e18","value":"Remover eq. pedido do inventário"},{"id":"c7189847-7460-48ed-848d-5175bbf3ca2d","value":""},{"id":"b1014b26-2bb2-431b-9061-ddc27bdc9eea","value":""},{"id":"4f4db8cc-19ea-41c2-8a79-0b7795bc8b50","value":"Registar equipamento adicionado"},{"id":"0419f5b7-711c-41cd-8f39-419c428026bc","value":""},{"id":"30c9fd72-55e0-4746-ace5-20cedc3924f9"},{"id":"d556b7a9-1cac-46c9-9dd6-67eee93995da"},{"id":"bfccc8b6-ae17-4532-9498-e922ab74a9ce"},{"id":"07399afe-71c5-4b7b-abcd-7a3da024d596"},{"id":"792b7765-68a9-4eef-aa0d-c87d084dad35","value":"Sistema de Gestão de Escalas"}]},{"containerId":"75226ffd-c26a-48a1-9863-d394cd5e68cd","containerName":"Tratar do eq. recolhido","isSubprocess":true,"elements":[{"id":"f90f7245-3913-41ff-81e9-d089debc734e","value":""},{"id":"dce7e5b5-e530-491e-a5d5-878b69560dc3","value":""},{"id":"839dc8cf-f391-457d-928f-7504bab93c0d","value":"Avaliar eq. recolhido"},{"id":"97fa8a4e-0d53-442f-91e1-bb03f5a57e35","value":"Está danificado"},{"id":"adf16998-a32e-4794-9875-2123a27344e9","value":"Inserir item no LAMIC"},{"id":"b1675905-ce34-478d-a2e3-6a0172fc377c"},{"id":"e80e84f5-f940-484f-946e-dadf51b37f18","value":"Equipamento é destruído"},{"id":"927d6ae9-0a26-4d17-8314-c6157bf0217b","value":"Equipamento é entregue ao armazém"},{"id":"02a979bc-8a74-413f-969a-e94cfee1be01","value":"Equipamento Recolhido"},{"id":"d34dd8a1-40bd-439c-b7e3-8519c2b0e91e"},{"id":"7f95c338-3eab-48ea-a5d2-f9de0eba651d"}]},{"containerId":"20cb4cad-b925-47f7-a713-0fdd1c99c4e7","containerName":"Executar a intervenção","isSubprocess":true,"elements":[{"id":"acddd1b9-7d2c-413d-a718-6886b30c2c49","value":""},{"id":"f8d378f1-e469-4e5d-b184-7ffdba8d753f","value":""},{"id":"bc68d511-90f6-4d11-ba6b-695758c2a4c4","value":"Executar o trabalho descrito na Intervenção"},{"id":"2ae86d99-9134-4968-85bd-7c21432ebf5c","value":"Deslocar ao local descrito na Intervenção"}]},{"containerId":"bc68d511-90f6-4d11-ba6b-695758c2a4c4","containerName":"Executar o trabalho descrito na Intervenção","isSubprocess":true,"elements":[{"id":"2d1cf529-8bb1-4617-ac9a-2bca8dee65cc","value":"É necessário a manutenção de eq. existente?"},{"id":"b6c77f80-de36-4c85-99e4-63e2ed6ac150","value":"Manutenção do eq. existente"},{"id":"6298ec14-fe2e-4497-9a7d-d9be084a9ecd","value":"É necessário recolher equipamento?"},{"id":"8aa200d8-1725-4c43-b190-564038c07440","value":"Recolher equipamento"},{"id":"f7d1ec68-03ac-49ca-9f7e-af4324115a58","value":"Equipamento Recolhido"},{"id":"6f5af32f-3f39-4bdf-a819-fc17a4cb8135","value":"Equipamento novo"},{"id":"61524ce6-91ec-48ee-a8d3-704881d593a4","value":"Instalar equipamento novo"},{"id":"1351a2d0-edde-4180-94ba-c06608d79296","value":"Existe equipamento novo?"},{"id":"34b72678-168d-4277-8994-cadb3486e512"},{"id":"59592777-8076-447a-b3aa-d8b1c5cc5052"}]}]}
